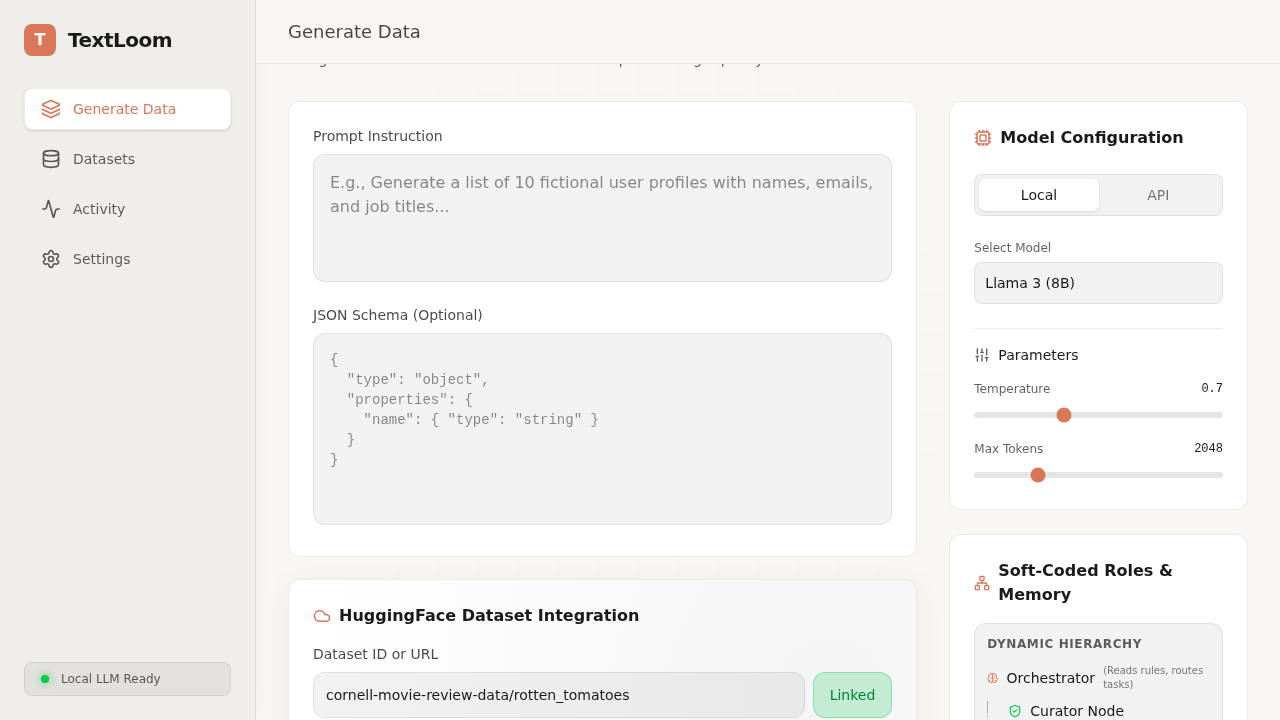
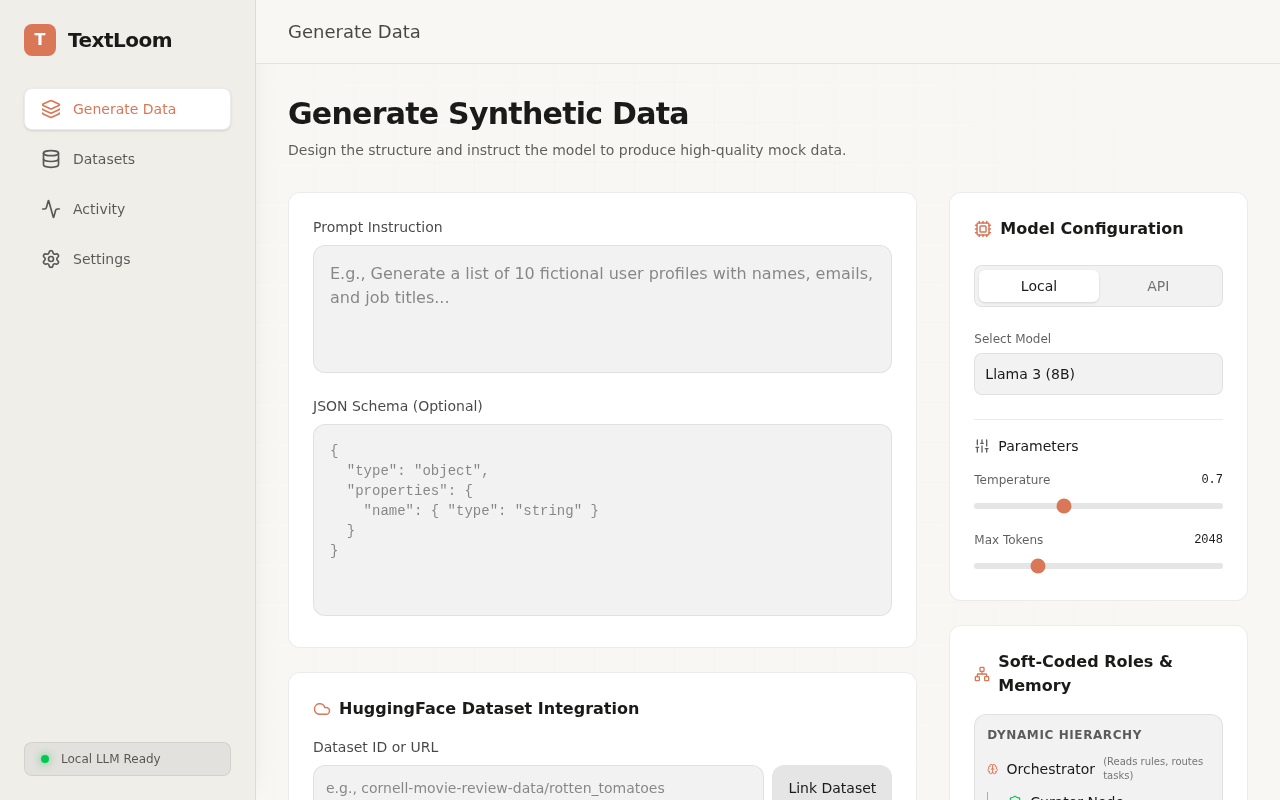
Fix UI overlap issue by changing h-full to min-h-full on flex containers

diff --git a/src/App.tsx b/src/App.tsx
@@ -5,7 +5,7 @@ import ResultsView from './components/ResultsView';
 function App() {
   return (
     <Layout>
-      <div className="flex flex-col h-full space-y-8 pb-12">
+      <div className="flex flex-col min-h-full space-y-8 pb-12">
         <div className="flex flex-col space-y-2">
           <h1 className="text-3xl font-bold tracking-tight">Generate Synthetic Data</h1>
           <p className="text-sm opacity-70">Design the structure and instruct the model to produce high-quality mock data.</p>

diff --git a/src/components/Layout.tsx b/src/components/Layout.tsx
@@ -86,7 +86,7 @@ const Layout: React.FC<LayoutProps> = ({ children }) => {
             initial={{ opacity: 0, y: 10 }}
             animate={{ opacity: 1, y: 0 }}
             transition={{ type: "spring", stiffness: 400, damping: 40 }}
-            className="max-w-6xl mx-auto h-full"
+            className="max-w-6xl mx-auto min-h-full"
           >
             {children}
           </motion.div>

diff --git a/test_table_view.py b/test_table_view.py
@@ -1,0 +1,25 @@
+from playwright.sync_api import sync_playwright
+
+with sync_playwright() as p:
+    browser = p.chromium.launch(headless=True)
+    page = browser.new_page(viewport={'width': 1280, 'height': 800})
+    page.goto("http://localhost:5173")
+    page.wait_for_timeout(2000)
+
+    # Scroll down to end of page to see ResultsView
+    page.evaluate("document.querySelector('.flex-1.overflow-y-auto').scrollTo(0, document.querySelector('.flex-1.overflow-y-auto').scrollHeight)")
+    page.wait_for_timeout(500)
+
+    # Switch to Table View
+    # The button with title "Table View"
+    page.click("button[title='Table View']")
+    page.wait_for_timeout(500)
+
+    # Take screenshot
+    page.screenshot(path="public/table_view.png")
+
+    # Click raw view again
+    page.click("button[title='Raw JSON']")
+    page.wait_for_timeout(500)
+
+    browser.close()

diff --git a/test_scroll.py b/test_scroll.py
@@ -1,0 +1,14 @@
+from playwright.sync_api import sync_playwright
+
+with sync_playwright() as p:
+    browser = p.chromium.launch(headless=True)
+    page = browser.new_page(viewport={'width': 1280, 'height': 800})
+    page.goto("http://localhost:5173")
+    page.wait_for_timeout(2000)
+
+    # Scroll down to end of page
+    page.evaluate("document.querySelector('.flex-1.overflow-y-auto').scrollTo(0, document.querySelector('.flex-1.overflow-y-auto').scrollHeight)")
+    page.wait_for_timeout(500)
+    page.screenshot(path="public/scroll3.png")
+
+    browser.close()
